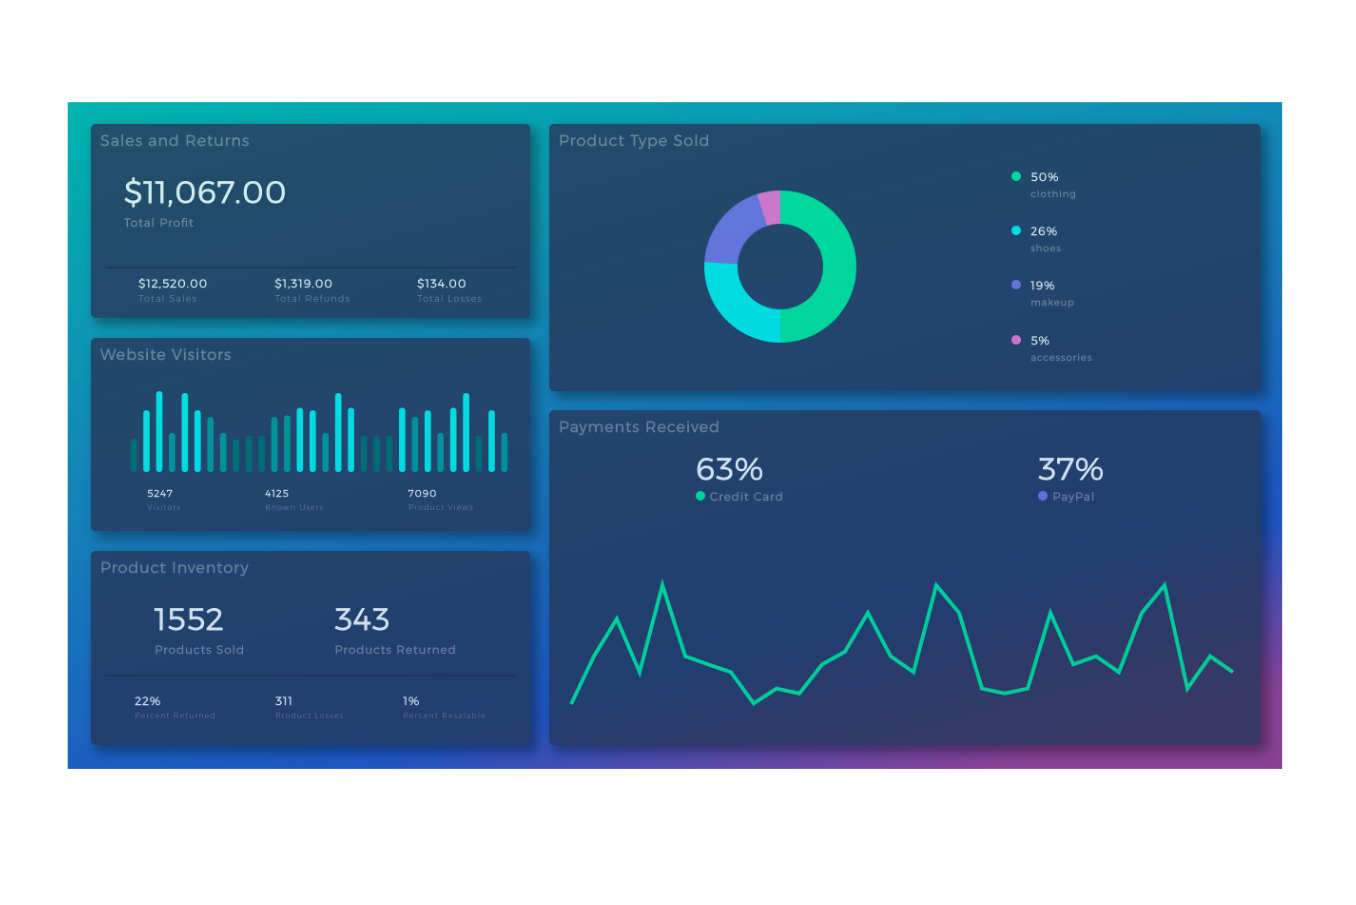
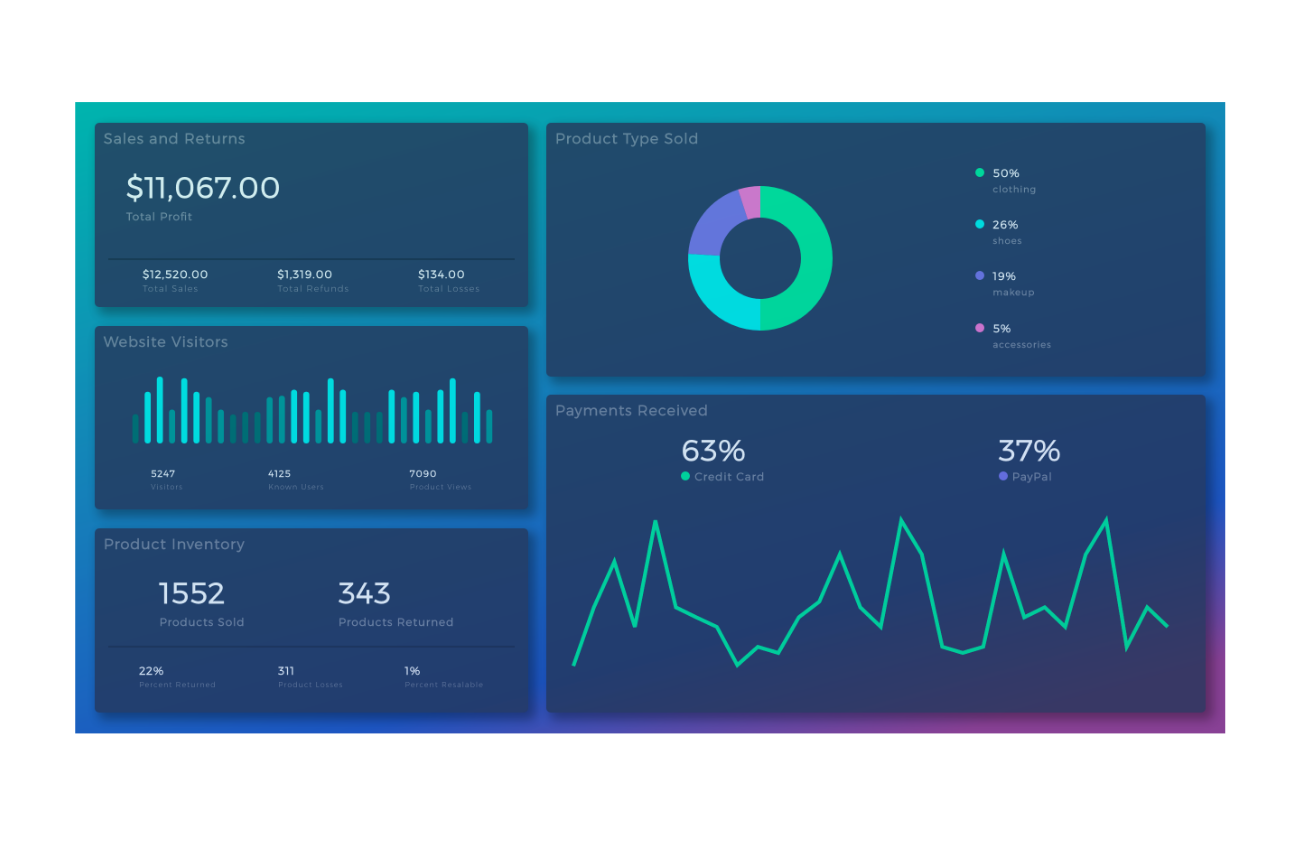
fixing stuff

diff --git a/index.html b/index.html
@@ -384,7 +384,7 @@
                                 <!-- Project Details Go Here -->
                                 <h2>Ecommerce Dashboard</h2>
                                 <p class="item-intro text-muted">Visually charts Ecommerce Store data.</p>
-                                <img class="img-responsive img-centered" src="img/dashboard.png" alt="">
+                                <img class="img-responsive img-centered" src="img/mini.png" alt="">
                                 <p>Fully Responsive Dashboard that pulls data to visually show the different aspects of an online Ecommerce website. Allowing user to easily track total sales, returns, payment methods, products sold, etc.</p>
                                 <p>
                                     <ul class="list-inline">
